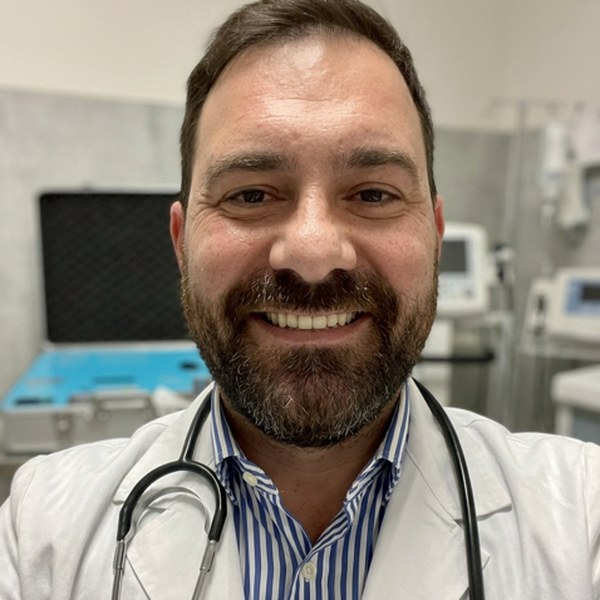
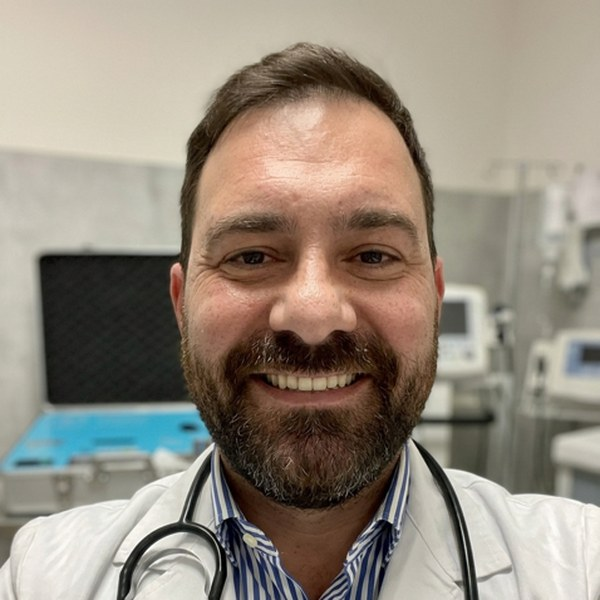
Add files via upload

diff --git a/index.html b/index.html
@@ -93,8 +93,8 @@
   @media(max-width:520px){.brand img.logo-top{height:46px}}
 
   .hero{position:relative;min-height:100vh;display:flex;align-items:center;overflow:hidden;background:var(--teal-deep)}
-  .hero video{position:absolute;inset:0;width:100%;height:100%;object-fit:cover;opacity:.42;mix-blend-mode:screen}
-  .hero .veil{position:absolute;inset:0;background:radial-gradient(120% 90% at 70% 20%,rgba(14,124,107,.3),transparent 60%),linear-gradient(180deg,rgba(6,43,38,.82),rgba(6,43,38,.66) 45%,rgba(6,43,38,.93))}
+  .hero video{position:absolute;inset:0;width:100%;height:100%;object-fit:cover;object-position:center 30%;opacity:1}
+  .hero .veil{position:absolute;inset:0;background:linear-gradient(90deg,rgba(6,43,38,.78) 0%,rgba(6,43,38,.55) 45%,rgba(6,43,38,.3) 100%),linear-gradient(180deg,rgba(6,43,38,.25),rgba(6,43,38,.55))}
   .hero .wrap{position:relative;z-index:2;padding-top:110px;padding-bottom:80px}
   .hero .inner{max-width:820px}
   .hero .eyebrow{margin-bottom:20px}
@@ -137,8 +137,8 @@
   .fact p{color:rgba(255,255,255,.8);font-size:.94rem;margin:0}
 
   .ozono-split{display:grid;grid-template-columns:1.05fr .95fr;gap:50px;align-items:center}
-  .video-frame{border-radius:22px;overflow:hidden;box-shadow:var(--shadow);border:1px solid var(--line);background:#000;aspect-ratio:9/12;max-height:520px}
-  .video-frame video{width:100%;height:100%;object-fit:cover;display:block}
+  .video-frame{border-radius:22px;overflow:hidden;box-shadow:var(--shadow);border:1px solid var(--line);background:#0a1f1c;aspect-ratio:9/16;max-height:560px;margin:0 auto}
+  .video-frame video{width:100%;height:100%;object-fit:contain;display:block}
   .effects{display:grid;grid-template-columns:repeat(3,1fr);gap:24px;margin-top:50px}
   .effect{background:#fff;border:1px solid var(--line);border-radius:20px;padding:30px;border-top:3px solid var(--gold)}
   .effect h3{font-size:1.4rem;color:var(--teal-dark);margin-bottom:10px}
